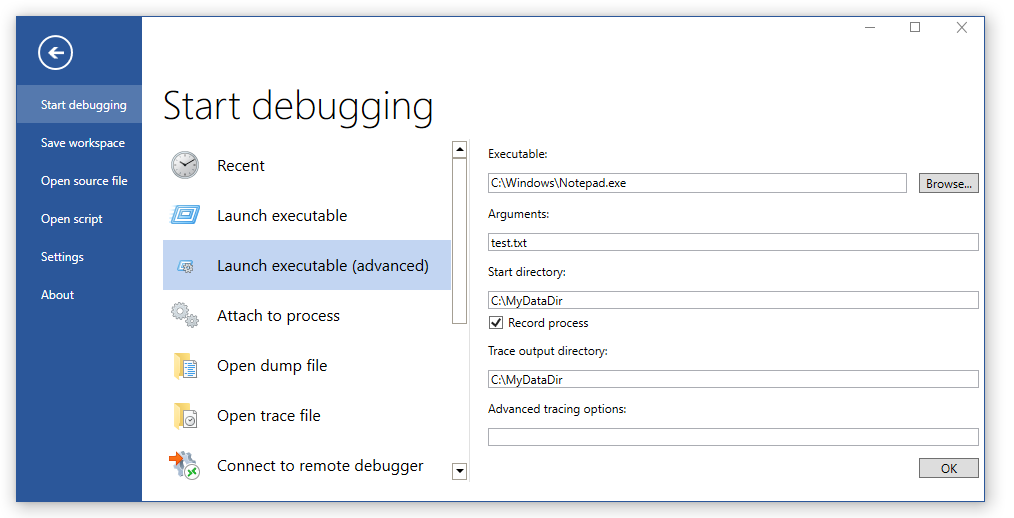
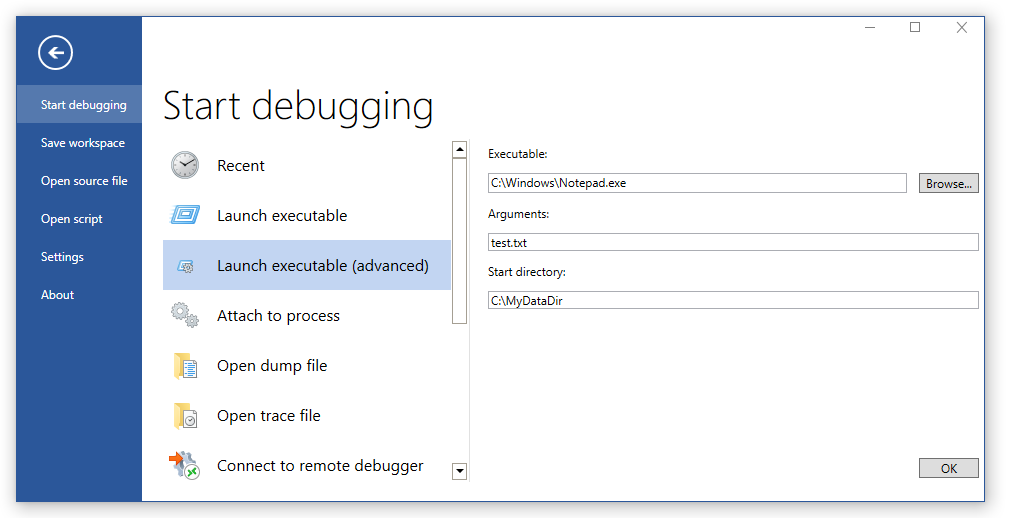
Adding new DbgX content

Changed region(s): [[0.4892, 0.6178, 0.5809, 0.7413], [0.4892, 0.7722, 0.6114, 0.8031]]

diff --git a/windows-driver-docs-pr/debugger/windbg-setup-preview.md b/windows-driver-docs-pr/debugger/windbg-setup-preview.md
@@ -14,18 +14,57 @@ This section describes how to setup and configure the WinDbg Preview debugger.
 
 ## Settings
 
-Use the settings menu to set the source and symbol path. 
+Use the settings menu to set the source and symbol path as well as choose the light and dark theme for the debugger. 
 
 ![Screen shot of feedback hub showing feedback options including the add new feedback button](images/windbgx-settings-menu.png)
 
-For more information see [Accessing Symbols for Debugging](accessing-symbols-for-debugging.md) and [Source Code Debugging in WinDbg](source-window.md).
+For more information on setting the paths, see [Accessing Symbols for Debugging](accessing-symbols-for-debugging.md) and [Source Code Debugging in WinDbg](source-window.md).
 
 ## Workspace
 
-The workspace feature saves configuration information in the target connection information.
+The workspace feature saves configuration information in the target connection information file.
 
->> TBD correct? 
->> TBD Follow up on this
+When you change settings TBD TBD.
+
+The workspace and target connection information is stored in XML format. 
+
+The following file, shows an example workspace configuration file.
+
+```
+<?xml version="1.0" encoding="utf-8"?>
+<TargetConfig Name="C:\paint.dmp" LastUsed="2017-08-03T21:34:20.1013837Z">
+  <EngineConfig />
+  <EngineOptions>
+    <Property name="FinalBreak" value="true" />
+    <Property name="SourceDebugging" value="true" />
+    <Property name="DebugChildProcesses" value="false" />
+    <Property name="Noninvasive" value="false" />
+    <Property name="NoDebugHeap" value="false" />
+    <Property name="Verbose" value="false" />
+    <Property name="SymbolOptionsOverride" value="0" />
+    <Property name="ShouldOverrideSymbolOptions" value="false" />
+    <Property name="SymOptExactSymbols" value="false" />
+    <Property name="SymOptFailCriticalErrors" value="false" />
+    <Property name="SymOptIgnoreCvRec" value="false" />
+    <Property name="SymOptIgnoreNtSympath" value="false" />
+    <Property name="SymOptNoCpp" value="false" />
+    <Property name="SymOptNoUnqualifiedLoads" value="false" />
+    <Property name="SymOptAutoPublics" value="false" />
+    <Property name="SymOptDebug" value="false" />
+    <Property name="Elevate" value="false" />
+    <Property name="Restartable" value="true" />
+    <Property name="UseImplicitCommandLine" value="false" />
+  </EngineOptions>
+  <TargetOptions>
+    <Option name="OpenDump">
+      <Property name="DumpPath" value="C:\paint.dmp" />
+    </Option>
+  </TargetOptions>
+</TargetConfig>
+
+```
+
+Note that this file format will continue to evolve as more featured are added to WinDbg Preview.
 
 *Additional content pending*
 

diff --git a/windows-driver-docs-pr/debugger/windbg-user-mode-preview.md b/windows-driver-docs-pr/debugger/windbg-user-mode-preview.md
@@ -24,17 +24,16 @@ All three options are described next.
 
 Use this option to starts an executable and attach to it.
 
+Browse to the desired executable in the provided file dialog and open it. 
+
 ## Launch Executable (advanced)
 
-Use this option to start an executable and attach to it it using a set of dialog boxes with advanced options. Speficy the following options
-- Path to the executable, such as C:\Windows\notepad.exe
+Use this option to start an executable and attach to it it using a set of dialog boxes with advanced options. 
+
+Specify the following options:
+- Path to the executable, such as *C:\Windows\notepad.exe*
 - Optional arguments to provide to the executable when launched
 - Optional start directory location
-- Checkbox to control if a trace is taken
-- Trace output directory used when a trace is taken
-- Advanced tracing options. For more information about tracing options, see [TBD]() 
-
->> ETW Trace options???
 
 ![Launch Executable (advanced) dialog box with advanced options](images/windbgx-launch-executable-advanced.png)
 
